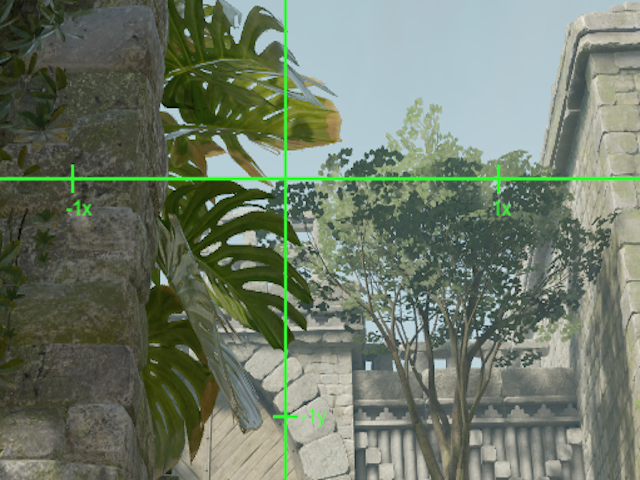
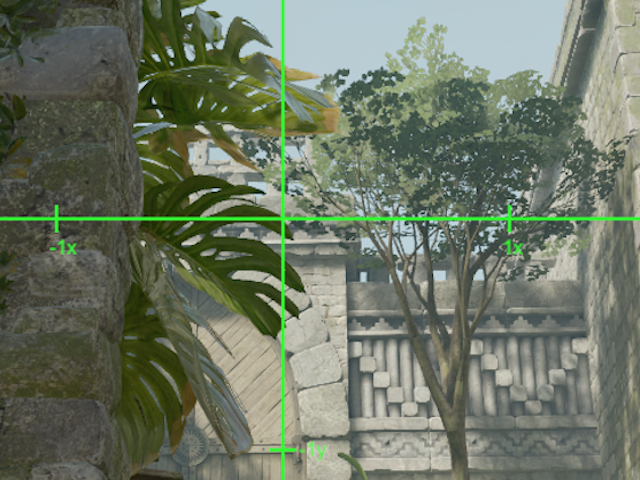
improved ancient instants

diff --git a/app/src/data/maps/ancient/lineups.ts b/app/src/data/maps/ancient/lineups.ts
@@ -212,7 +212,7 @@ export const ancientLineups = [
     id: "mid-from-t-spawn-instant-spawn-2",
     nadeType: "smoke",
     throwType: "jump",
-    position: "crouch",
+    position: "stand",
     movement: "walk",
     side: "t",
     coordinates: {
@@ -224,13 +224,13 @@ export const ancientLineups = [
       y: 867,
     },
     setPos:
-      "setpos -392.054504 -2224.069580 -99.415771;setang -29.044418 92.196594 0.000000",
+      "setpos -392.054504 -2224.069580 -99.415741;setang -27.275644 92.407776 0.000000",
   },
   {
     name: "Mid from t spawn - instant spawn 5",
     id: "mid-from-t-spawn-instant-spawn-5",
     nadeType: "smoke",
-    position: "crouch",
+    position: "stand",
     movement: "walk",
     throwType: "jump",
     side: "t",
